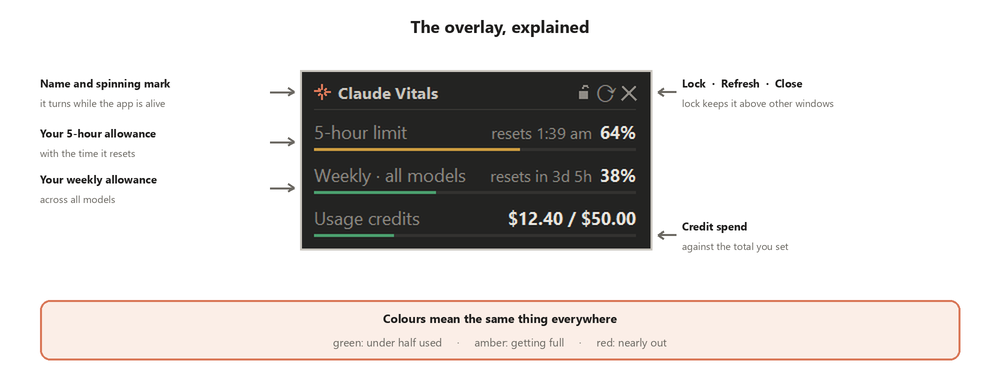
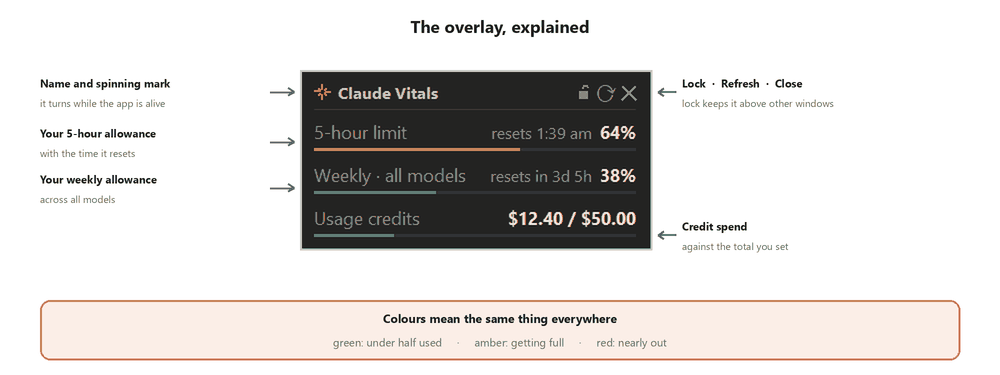
Slim the repo, and make the one credential-touching tool ask first
Images were 71% of everything cloned (519 KB of 732 KB) while all the code came
to under 200 KB. The diagrams are flat-colour artwork saved at full depth, so a
64-colour palette is visually identical and about 70% smaller.

- Diagrams and the demo still 1000px wide, now 13-21 KB each instead of 44-78 KB
- make_diagrams.py and make_demo_shot.py quantise on save, so regenerating them
  keeps the saving rather than quietly undoing it
- tools/refresh_and_probe.py now asks for confirmation (or --yes) before it
  renews the login and rewrites ~/.claude/.credentials.json. Every other script
  in tools/ is read-only, and running them all to see what they do should not
  rotate somebody's token

diff --git a/tools/refresh_and_probe.py b/tools/refresh_and_probe.py
@@ -40,6 +40,22 @@ def describe_shape(value, indent=0, key=""):
 print("=== 1. current credential status ===")
 print("  ", credentials.describe())
 
+# This is the only tool here that CHANGES anything of yours: it renews your
+# Claude login and rewrites ~/.claude/.credentials.json (after backing it up).
+# Everything else in tools/ is read-only, so make this one ask first -- running
+# every script in a folder to see what they do should not rotate your token.
+print("\nThis will renew your Claude login and rewrite:")
+print(f"   {config.CREDENTIALS_FILE}")
+print(f"   (a backup is written to {config.CREDENTIALS_FILE.name}.bak first)")
+if "--yes" not in sys.argv:
+    try:
+        if input("\nContinue? [y/N] ").strip().lower() not in ("y", "yes"):
+            print("Cancelled. Nothing was changed.")
+            sys.exit(0)
+    except (EOFError, KeyboardInterrupt):
+        print("\nCancelled. Nothing was changed.")
+        sys.exit(0)
+
 print("\n=== 2. refreshing access token ===")
 try:
     creds = credentials.refresh()

diff --git a/docs/make_diagrams.py b/docs/make_diagrams.py
@@ -73,8 +73,12 @@ def arrow(d, start, end, colour=MUTED, width=2, head=7):
 def save(img, name):
     img = img.resize((img.width // SCALE, img.height // SCALE), Image.LANCZOS)
     out = DOCS / name
-    img.save(out)
-    print(f"  wrote {out.name}  ({img.width}x{img.height})")
+    # These are flat-colour diagrams -- a 64-colour palette is visually
+    # identical and about 70% smaller, which matters because images are the
+    # bulk of what anyone clones.
+    img.convert("RGB").quantize(colors=64, method=Image.MEDIANCUT).save(
+        out, optimize=True)
+    print(f"  wrote {out.name}  ({img.width}x{img.height}, {out.stat().st_size // 1024} KB)")
     return out
 
 

diff --git a/tools/make_demo_shot.py b/tools/make_demo_shot.py
@@ -23,7 +23,7 @@ except Exception:
 
 sys.path.insert(0, str(Path(__file__).resolve().parent.parent))
 
-from PIL import ImageGrab  # noqa: E402
+from PIL import Image, ImageGrab  # noqa: E402
 
 from claude_usage import overlay as overlay_mod, state as state_mod, usage  # noqa: E402
 
@@ -67,5 +67,6 @@ st.stop_event.set()
 root.destroy()
 
 OUT.parent.mkdir(parents=True, exist_ok=True)
-shot.save(OUT)
+# Palette-quantised: visually identical for a flat-colour UI, far smaller.
+shot.convert("RGB").quantize(colors=64, method=Image.MEDIANCUT).save(OUT, optimize=True)
 print(f"wrote {OUT}  ({shot.size[0]}x{shot.size[1]})  — invented numbers, safe to publish")
